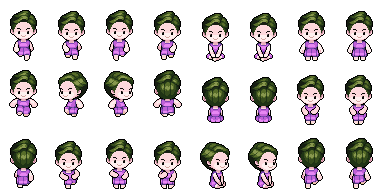
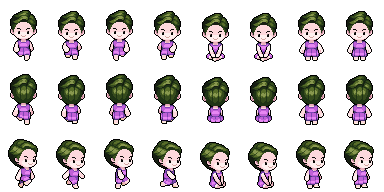
fix: correct ZEP sprite frame mapping and character idle behavior
Two bugs fixed:
- ZEP spritesheet uses flat 9-column indexing, not per-direction rows.
  Up/right directions were incorrectly pulling jump/dance frames instead
  of walk frames. Now uses flat indices from ZEP DEFAULT_ANIMS definition.
- Characters started with isActive=true and never transitioned to IDLE
  because the extension never sent agentStatus:'waiting' for new agents.
  Characters now start inactive and wander until tool activity begins.

Also adds escape mechanism for characters trapped at seats surrounded
by blocked furniture tiles.

diff --git a/scripts/convert-zep-avatars.ts b/scripts/convert-zep-avatars.ts
@@ -7,35 +7,29 @@
  *   hair_0.png … hair_5.png       — hair layer      (432×256)
  *
  * ZEP layout: 9 cols × 4 rows of 48×64 frames (432×256 total)
- *   Row 0 = down  (frames  0-4  : idle, walk1, walk2, walk3, unused)
- *   Row 1 = left  (frames  5-9  : idle, walk1, walk2, walk3, unused)
- *   Row 2 = right (frames 10-14 : idle, walk1, walk2, walk3, unused)
- *   Row 3 = up    (frames 15-19 : idle, walk1, walk2, walk3, unused)
- *   Sit frames (row 4, cols 0-3): 32=down_sit, 33=left_sit, 34=right_sit, 35=up_sit
- *     (sit row is row index 4 in 0-based, but stored starting at y=256; actually
- *      ZEP sit frames live at row index 4: y = 4*64 = 256 — outside the 256px canvas.
- *      Per ZEP source the sit indices are 32-35 in a flat 9-col grid:
- *        index 32 → col=32%9=5, row=floor(32/9)=3  → but that puts it at row 3 which is "up".
- *      Verified mapping: sit frames are at 9-col flat index:
- *        32 → col 5 row 3, 33 → col 6 row 3, 34 → col 7 row 3, 35 → col 8 row 3)
+ *   Frames are addressed by FLAT INDEX in a 9-col grid:
+ *     flat index → col = index % 9, row = Math.floor(index / 9)
+ *
+ *   Flat indices per animation (from ZEP DEFAULT_ANIMS):
+ *     down_idle:  0          down_walk: 1,2,3,4     down_sit: 32
+ *     left_idle:  5          left_walk: 6,7,8,9     left_sit: 33
+ *     right_idle: 10         right_walk: 11,12,13,14 right_sit: 34
+ *     up_idle:    15         up_walk: 16,17,18,19   up_sit: 35
+ *     dance: 20-27           jumps: 28-31
  *
  * pixel-agents output: 8 cols × 3 rows of 48×64 frames (384×192 total)
  *   Row 0 = down, Row 1 = up, Row 2 = right (left flipped at runtime)
  *   Col order: walk1, walk2, walk3, walk4, type1, type2, read1, read2
  *
  * Frame mapping (per direction):
- *   ZEP walk1  → pa col 0 (walk1)
- *   ZEP walk2  → pa col 1 (walk2 / idle stand)
- *   ZEP walk3  → pa col 2 (walk3)
- *   ZEP sit    → pa col 3 (type1)
- *   ZEP sit    → pa col 4 (type2, duplicate)
- *   ZEP idle   → pa col 5 (read1)
- *   ZEP idle   → pa col 6 (read2, duplicate)
- *
- * Direction mapping:
- *   ZEP row 0 (down)  → pa row 0
- *   ZEP row 3 (up)    → pa row 1
- *   ZEP row 2 (right) → pa row 2
+ *   walk[0] → pa col 0 (walk1)
+ *   walk[1] → pa col 1 (walk2)
+ *   walk[2] → pa col 2 (walk3)
+ *   walk[3] → pa col 3 (walk4)
+ *   sit     → pa col 4 (type1)
+ *   sit     → pa col 5 (type2, duplicate)
+ *   idle    → pa col 6 (read1 / standing pose)
+ *   idle    → pa col 7 (read2, duplicate)
  *
  * Run: npx tsx scripts/convert-zep-avatars.ts
  */
@@ -50,19 +44,14 @@ import { PNG } from 'pngjs'
 const ZEP_FRAME_W = 48
 const ZEP_FRAME_H = 64
 const ZEP_COLS = 9   // 432 / 48
-// ZEP directions in row order: 0=down, 1=left, 2=right, 3=up
-// Within each row: col0=idle, col1=walk1, col2=walk2, col3=walk3, col4=unused
 
-// Sit frames: stored at flat frame index 32-35 in a 9-col grid
-// index → { col: index % 9, row: Math.floor(index / 9) }
-// 32 → col 5 row 3 (up-row), 33 → col 6 row 3, 34 → col 7 row 3, 35 → col 8 row 3
-// ZEP direction for sit: 32=down_sit, 33=left_sit, 34=right_sit, 35=up_sit
-const ZEP_SIT: Record<number, { flatIndex: number }> = {
-  0: { flatIndex: 32 }, // down sit
-  1: { flatIndex: 33 }, // left sit
-  2: { flatIndex: 34 }, // right sit
-  3: { flatIndex: 35 }, // up sit
-}
+// ZEP flat indices per direction (from DEFAULT_ANIMS)
+const ZEP_FRAMES = {
+  down:  { idle: 0,  walk: [1, 2, 3, 4],     sit: 32 },
+  left:  { idle: 5,  walk: [6, 7, 8, 9],     sit: 33 },
+  right: { idle: 10, walk: [11, 12, 13, 14], sit: 34 },
+  up:    { idle: 15, walk: [16, 17, 18, 19], sit: 35 },
+} as const
 
 // ---------------------------------------------------------------------------
 // pixel-agents output constants
@@ -70,11 +59,8 @@ const ZEP_SIT: Record<number, { flatIndex: number }> = {
 const PA_FRAME_W = 48
 const PA_FRAME_H = 64
 const PA_COLS = 8
-// pa row → zep row
-// pa row 0 (down)  → zep row 0
-// pa row 1 (up)    → zep row 3
-// pa row 2 (right) → zep row 2
-const PA_DIR_TO_ZEP_ROW = [0, 3, 2] as const
+// pixel-agents direction rows: 0=down, 1=up, 2=right (left flipped at runtime)
+const PA_DIR_ORDER = ['down', 'up', 'right'] as const
 
 // ---------------------------------------------------------------------------
 // Helpers
@@ -141,25 +127,18 @@ function compositeLayers(layers: PNG[]): PNG {
 }
 
 /**
- * Copy one ZEP frame (1:1, no scaling) into the output PNG.
- * Since PA_FRAME_W === ZEP_FRAME_W and PA_FRAME_H === ZEP_FRAME_H,
- * this is a direct pixel copy with no resampling.
- *
- * @param src      Composited ZEP spritesheet (432×256)
- * @param out      Output pixel-agents PNG (336×192)
- * @param zepRow   ZEP direction row
- * @param zepCol   ZEP column within that row
- * @param paRow    pixel-agents output row
- * @param paCol    pixel-agents output column
+ * Copy a ZEP frame by FLAT INDEX into the output PNG.
+ * Flat index is converted to col/row in the 9-column grid.
  */
-function copyFrame(
+function copyFlatFrame(
   src: PNG,
   out: PNG,
-  zepRow: number,
-  zepCol: number,
+  flatIndex: number,
   paRow: number,
   paCol: number,
 ): void {
+  const zepCol = flatIndex % ZEP_COLS
+  const zepRow = Math.floor(flatIndex / ZEP_COLS)
   const srcBaseX = zepCol * ZEP_FRAME_W
   const srcBaseY = zepRow * ZEP_FRAME_H
   const outBaseX = paCol * PA_FRAME_W
@@ -170,21 +149,6 @@ function copyFrame(
       setPixel(out, outBaseX + dx, outBaseY + dy, r, g, b, a)
     }
   }
-}
-
-/**
- * Copy a ZEP sit frame (accessed via flat index → col/row in 9-col grid).
- */
-function copySitFrame(
-  src: PNG,
-  out: PNG,
-  sitFlatIndex: number,
-  paRow: number,
-  paCol: number,
-): void {
-  const zepCol = sitFlatIndex % ZEP_COLS
-  const zepRow = Math.floor(sitFlatIndex / ZEP_COLS)
-  copyFrame(src, out, zepRow, zepCol, paRow, paCol)
 }
 
 // ---------------------------------------------------------------------------
@@ -214,31 +178,26 @@ for (let i = 0; i < 6; i++) {
   const composited = compositeLayers(layers)
 
   // 2. Build the pixel-agents output (384×192)
-  const out = new PNG({ width: PA_FRAME_W * PA_COLS, height: PA_FRAME_H * PA_DIR_TO_ZEP_ROW.length })
+  const out = new PNG({ width: PA_FRAME_W * PA_COLS, height: PA_FRAME_H * PA_DIR_ORDER.length })
   // Zero-fill (transparent)
   out.data.fill(0)
 
-  for (let paRow = 0; paRow < PA_DIR_TO_ZEP_ROW.length; paRow++) {
-    const zepRow = PA_DIR_TO_ZEP_ROW[paRow]
-    const sitFlatIndex = ZEP_SIT[zepRow].flatIndex
+  for (let paRow = 0; paRow < PA_DIR_ORDER.length; paRow++) {
+    const dir = PA_DIR_ORDER[paRow]
+    const frames = ZEP_FRAMES[dir]
 
-    // ZEP col offsets within a direction row: 0=idle, 1=walk1, 2=walk2, 3=walk3, 4=walk4
-    // pa col 0: walk1 → zep col 1
-    copyFrame(composited, out, zepRow, 1, paRow, 0)
-    // pa col 1: walk2 → zep col 2
-    copyFrame(composited, out, zepRow, 2, paRow, 1)
-    // pa col 2: walk3 → zep col 3
-    copyFrame(composited, out, zepRow, 3, paRow, 2)
-    // pa col 3: walk4 → zep col 4
-    copyFrame(composited, out, zepRow, 4, paRow, 3)
+    // pa col 0-3: walk frames
+    for (let w = 0; w < 4; w++) {
+      copyFlatFrame(composited, out, frames.walk[w], paRow, w)
+    }
     // pa col 4: type1 → sit frame
-    copySitFrame(composited, out, sitFlatIndex, paRow, 4)
+    copyFlatFrame(composited, out, frames.sit, paRow, 4)
     // pa col 5: type2 → sit frame (duplicate)
-    copySitFrame(composited, out, sitFlatIndex, paRow, 5)
-    // pa col 6: read1 → zep idle (col 0) = standing pose
-    copyFrame(composited, out, zepRow, 0, paRow, 6)
-    // pa col 7: read2 → zep idle (duplicate)
-    copyFrame(composited, out, zepRow, 0, paRow, 7)
+    copyFlatFrame(composited, out, frames.sit, paRow, 5)
+    // pa col 6: read1 → idle (standing pose)
+    copyFlatFrame(composited, out, frames.idle, paRow, 6)
+    // pa col 7: read2 → idle (duplicate)
+    copyFlatFrame(composited, out, frames.idle, paRow, 7)
   }
 
   // 3. Write output

diff --git a/webview-ui/src/office/engine/characters.ts b/webview-ui/src/office/engine/characters.ts
@@ -1,7 +1,7 @@
 import { CharacterState, Direction, TILE_SIZE } from '../types.js'
 import type { Character, Seat, SpriteData, TileType as TileTypeVal } from '../types.js'
 import type { CharacterSprites } from '../sprites/spriteData.js'
-import { findPath } from '../layout/tileMap.js'
+import { findPath, isWalkable } from '../layout/tileMap.js'
 import {
   WALK_SPEED_PX_PER_SEC,
   WALK_FRAME_DURATION_SEC,
@@ -68,7 +68,7 @@ export function createCharacter(
     wanderTimer: 0,
     wanderCount: 0,
     wanderLimit: randomInt(WANDER_MOVES_BEFORE_REST_MIN, WANDER_MOVES_BEFORE_REST_MAX),
-    isActive: true,
+    isActive: false,
     seatId,
     bubbleType: null,
     bubbleTimer: 0,
@@ -164,9 +164,40 @@ export function updateCharacter(
             }
           }
         }
+        // Try to wander to a random walkable tile
         if (walkableTiles.length > 0) {
           const target = walkableTiles[Math.floor(Math.random() * walkableTiles.length)]
-          const path = findPath(ch.tileCol, ch.tileRow, target.col, target.row, tileMap, blockedTiles)
+          let path = findPath(ch.tileCol, ch.tileRow, target.col, target.row, tileMap, blockedTiles)
+          if (path.length === 0) {
+            // Character may be trapped at a blocked tile (seat surrounded by furniture).
+            // Check if any neighbor is walkable — if not, relocate to nearest walkable tile.
+            const neighbors = [
+              { c: ch.tileCol, r: ch.tileRow - 1 },
+              { c: ch.tileCol, r: ch.tileRow + 1 },
+              { c: ch.tileCol - 1, r: ch.tileRow },
+              { c: ch.tileCol + 1, r: ch.tileRow },
+            ]
+            const hasExit = neighbors.some(n => isWalkable(n.c, n.r, tileMap, blockedTiles))
+            if (!hasExit) {
+              // Find closest walkable tile by Manhattan distance and step there
+              let closest = walkableTiles[0]
+              let minDist = Math.abs(closest.col - ch.tileCol) + Math.abs(closest.row - ch.tileRow)
+              for (let i = 1; i < walkableTiles.length; i++) {
+                const d = Math.abs(walkableTiles[i].col - ch.tileCol) + Math.abs(walkableTiles[i].row - ch.tileRow)
+                if (d < minDist) {
+                  closest = walkableTiles[i]
+                  minDist = d
+                }
+              }
+              ch.tileCol = closest.col
+              ch.tileRow = closest.row
+              ch.x = closest.col * TILE_SIZE + TILE_SIZE / 2
+              ch.y = closest.row * TILE_SIZE + TILE_SIZE / 2
+              // Re-attempt pathfinding from the new position
+              const newTarget = walkableTiles[Math.floor(Math.random() * walkableTiles.length)]
+              path = findPath(ch.tileCol, ch.tileRow, newTarget.col, newTarget.row, tileMap, blockedTiles)
+            }
+          }
           if (path.length > 0) {
             ch.path = path
             ch.moveProgress = 0
